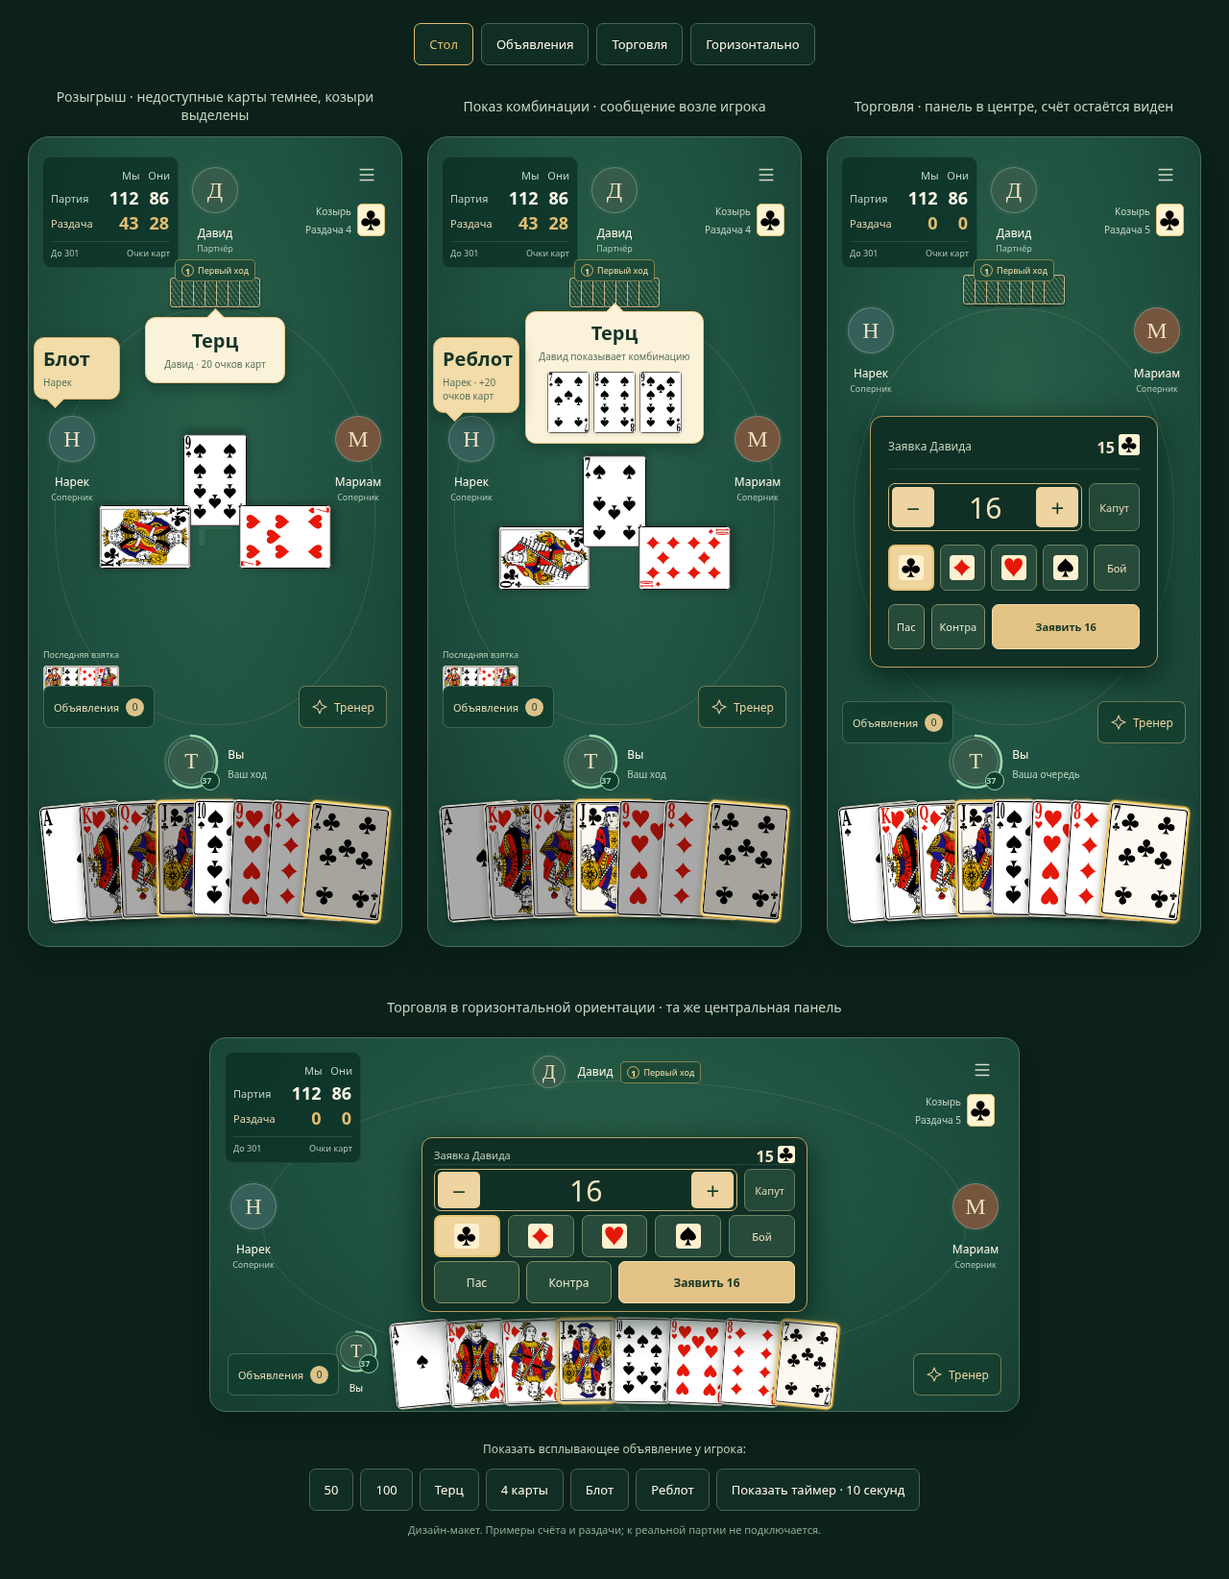
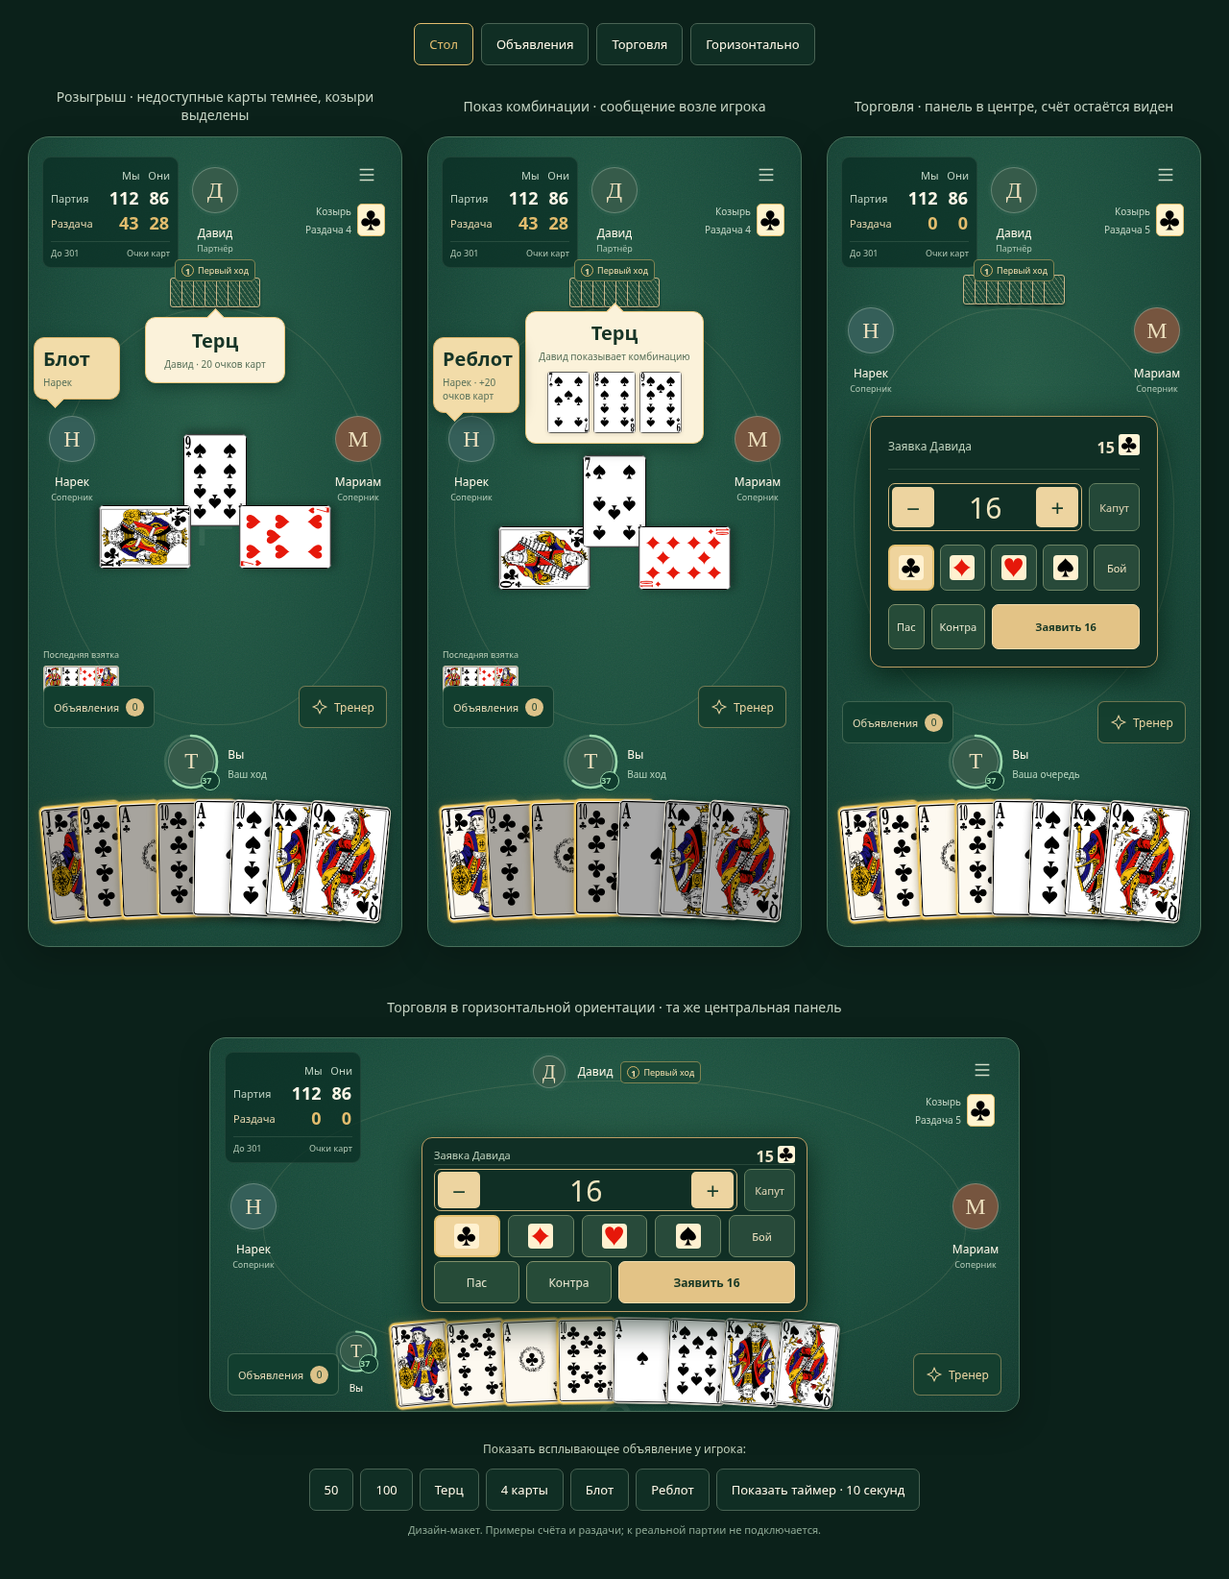
Sort design hands by suit and Blot strength for the current contract

Changed region(s): [[0.0312, 0.4964, 0.6562, 0.5894], [0.6875, 0.4964, 0.9688, 0.5894], [0.3125, 0.8376, 0.6875, 0.8996]]

diff --git a/docs/design-v3/app.js b/docs/design-v3/app.js
@@ -1,11 +1,21 @@
 // Isolated visual prototype: no game rules, sockets, guest storage or production changes.
 const CARD_BASE = "../../web/public/cards/";
 const glyphs = { CLUBS: "♣", DIAMONDS: "♦", HEARTS: "♥", SPADES: "♠" };
-const rankOrder = ["ACE", "KING", "QUEEN", "JACK", "TEN", "NINE", "EIGHT", "SEVEN"];
+const suitOrder = ["CLUBS", "DIAMONDS", "HEARTS", "SPADES"];
+const trumpRanks = ["JACK", "NINE", "ACE", "TEN", "KING", "QUEEN", "EIGHT", "SEVEN"];
+const plainRanks = ["ACE", "TEN", "KING", "QUEEN", "JACK", "NINE", "EIGHT", "SEVEN"];
 const hand = [
-  ["SPADES", "ACE"], ["HEARTS", "KING"], ["DIAMONDS", "QUEEN"], ["CLUBS", "JACK"],
-  ["SPADES", "TEN"], ["HEARTS", "NINE"], ["DIAMONDS", "EIGHT"], ["CLUBS", "SEVEN"],
-].sort((a, b) => rankOrder.indexOf(a[1]) - rankOrder.indexOf(b[1]));
+  ["SPADES", "QUEEN"], ["CLUBS", "ACE"], ["SPADES", "KING"], ["CLUBS", "JACK"],
+  ["SPADES", "TEN"], ["CLUBS", "NINE"], ["SPADES", "ACE"], ["CLUBS", "TEN"],
+];
+function sortHand(source, trump) {
+  return [...source].sort(([suitA, rankA], [suitB, rankB]) => {
+    const suits = suitOrder.indexOf(suitA) - suitOrder.indexOf(suitB);
+    if (suits) return suits;
+    const ranks = suitA === trump ? trumpRanks : plainRanks;
+    return ranks.indexOf(rankA) - ranks.indexOf(rankB);
+  });
+}
 const cardImage = (suit, rank) => `<img src="${CARD_BASE}${suit}-${rank}.svg" alt="${rank} ${suit}" draggable="false">`;
 const suitImage = suit => `<img class="suit" src="${CARD_BASE}${suit}.svg" alt="${glyphs[suit]}" draggable="false">`;
 const menuIcon = `<svg viewBox="0 0 24 24" fill="none" stroke="currentColor" stroke-width="1.6"><path d="M4 6h16M4 12h16M4 18h16"/></svg>`;
@@ -17,12 +27,12 @@ const players = `<div class="player player-north">${avatar("Д", "NORTH")}<div c
 function scoreboard(bidding) {
   return `<div class="score" aria-label="Счёт команд"><table><thead><tr><th></th><th>Мы</th><th>Они</th></tr></thead><tbody><tr><th>Партия</th><td>112</td><td>86</td></tr><tr class="live"><th>Раздача</th><td>${bidding ? 0 : 43}</td><td>${bidding ? 0 : 28}</td></tr></tbody></table><div class="score-meta"><span>До 301</span><span>Очки карт</span></div></div>`;
 }
-function cards(bidding, proof) {
-  const cards = proof ? hand.filter(c => c[1] !== "TEN") : hand;
-  return `<div class="hand" aria-label="Карты по рангу от туза до семёрки" style="--count:${cards.length}">${cards.map(([suit, rank], index) => {
+function cards(bidding, proof, trump = "CLUBS") {
+  const cards = sortHand(proof ? hand.filter(([suit, rank]) => !(suit === "SPADES" && rank === "TEN")) : hand, trump);
+  return `<div class="hand" aria-label="Карты по мастям, внутри масти — по силе в блоте" style="--count:${cards.length}">${cards.map(([suit, rank], index) => {
     const available = bidding || (proof ? suit === "CLUBS" && rank === "JACK" : suit === "SPADES");
     const middle = (cards.length - 1) / 2;
-    return `<button class="hand-card ${available ? "" : "unavailable"} ${suit === "CLUBS" ? "trump" : ""}" style="--index:${index};--angle:${(index - middle) * 1.6};--curve:${Math.abs(index - middle) * 1.2}" ${!available || bidding ? "disabled" : ""} aria-label="${rank} ${glyphs[suit]}${suit === "CLUBS" ? ", козырь" : ""}">${cardImage(suit, rank)}</button>`;
+    return `<button class="hand-card ${available ? "" : "unavailable"} ${suit === trump ? "trump" : ""}" style="--index:${index};--angle:${(index - middle) * 1.6};--curve:${Math.abs(index - middle) * 1.2}" ${!available || bidding ? "disabled" : ""} aria-label="${rank} ${glyphs[suit]}${suit === trump ? ", козырь" : ""}">${cardImage(suit, rank)}</button>`;
   }).join("")}</div>`;
 }
 function bidPanel() {
@@ -103,11 +113,27 @@ document.querySelectorAll(".preview-nav button").forEach(button => button.addEve
 }));
 document.querySelectorAll(".bid-panel").forEach(panel => {
   let amount = 16;
+  let minimum = 16;
   function update() { panel.querySelector("output").textContent = amount; panel.querySelector(".submit-bid").textContent = `Заявить ${amount}`; }
   panel.querySelector(".increase").addEventListener("click", () => { amount++; update(); });
-  panel.querySelector(".decrease").addEventListener("click", () => { amount = Math.max(16, amount - 1); update(); });
+  panel.querySelector(".decrease").addEventListener("click", () => { amount = Math.max(minimum, amount - 1); update(); });
   panel.querySelectorAll("[data-suit]").forEach(button => button.addEventListener("click", () => panel.querySelectorAll("[data-suit]").forEach(b => b.classList.toggle("selected", b === button))));
   panel.querySelector(".caput").addEventListener("click", event => { const button = event.currentTarget; const pressed = button.getAttribute("aria-pressed") !== "true"; button.setAttribute("aria-pressed", pressed); if (pressed) amount = Math.max(26, amount); update(); });
+  // A draft suit does not change the current contract or reorder the hand.
+  // Submit only applies a visual example; it does not run the game's auction.
+  panel.querySelector(".submit-bid").addEventListener("click", () => {
+    const suit = panel.querySelector("[data-suit].selected").dataset.suit;
+    const trump = suit === "BOI" ? null : suit;
+    const symbol = trump ? suitImage(trump) : "Бой";
+    panel.querySelector(".current-offer").innerHTML = `<span>Ваша заявка</span><b>${amount} <span class="suit-chip">${symbol}</span></b>`;
+    const board = panel.closest(".board");
+    board.querySelector(".contract > span").textContent = trump ? "Козырь" : "Контракт";
+    board.querySelector(".contract > strong").innerHTML = symbol;
+    board.querySelector(".hand").outerHTML = cards(true, false, trump);
+    minimum = amount + 1;
+    amount = minimum;
+    update();
+  });
 });
 function fitLandscape() { document.documentElement.style.setProperty("--landscape-scale", Math.min(390, innerWidth) / 844); document.documentElement.style.setProperty("--focus-landscape-scale", Math.min(844, innerWidth - (innerWidth > 600 ? 32 : 0)) / 844); }
 addEventListener("resize", fitLandscape); fitLandscape(); renderArchive();

diff --git a/docs/design-v3/README.md b/docs/design-v3/README.md
@@ -10,9 +10,11 @@
   прозрачности. Красные масти остаются красными; карта полностью закрывает соседей.
 - Козыри: тёплая золотая обводка и слабая золотая подсветка, в том числе у
   затемнённого козыря. Признаки козыря и допустимости хода независимы.
-- Одна рука без скролла; номинальный порядок **Т, К, Д, В, 10, 9, 8, 7**.
-  Козыри остаются в общем порядке, а не переносятся вперёд. Это сортировка
-  по номиналу для чтения руки, не изменение силы карт в движке.
+- Одна рука без скролла: сначала группы мастей **♣, ♦, ♥, ♠**, затем сила
+  карты внутри каждой группы. Козырная масть: **В, 9, Т, 10, К, Д, 8, 7**;
+  остальные масти: **Т, 10, К, Д, В, 9, 8, 7**. Во время торговли используется
+  козырь текущей заявки; неподтверждённый выбор масти порядок не меняет.
+  В примере видны В♣, 9♣, Т♣, 10♣, затем Т♠, 10♠, К♠, Д♠.
 - У игрока, первым открывающего раздачу, постоянная метка **«① Первый ход»**.
   Она отличается от индикатора текущей очереди. В этих примерах первым
   выходит Давид; во второй взятке он сохраняет метку первого выхода раздачи.
@@ -63,7 +65,9 @@ python3 -m http.server 4190
 раньше второй взятки. Карты новых примеров не являются записью одной партии.
 
 Кнопки самой торговли показывают выбор масти, числовой заявки и капута.
-Команды партии, меню и настоящий тренер в этом прототипе не выполняются.
+«Заявить» меняет демонстрационный контракт, подсветку козырей и сортировку
+руки; выбор «Бой» применяет некозырный порядок ко всем мастям. Это визуальный
+пример, не исполнение правил торговли. Меню и настоящий тренер не выполняются.
 Будущая реализация должна связывать всплывающие окна с публичными событиями
 и не повторять старые сообщения после восстановления/переподключения.
 
@@ -73,8 +77,10 @@ Chromium: панели торговли имеют отклонение цент
 ориентациях; в горизонтальном кадре между панелью и рукой **5 px**.
 На 320/390 px нет горизонтального переполнения, центрирование сохранено.
 Проверены сводка → четыре показанные карты → счётчик архива, отсутствие
-преждевременного архивирования и ошибок JavaScript. Рука отсортирована в
-порядке номиналов; недоступные карты не используют grayscale/opacity.
+преждевременного архивирования и ошибок JavaScript. Проверены группы всех
+четырёх мастей и оба порядка
+всех восьми рангов, сохранение руки при выборе черновой масти и пересортировка
+после демонстрационной заявки; недоступные карты не используют grayscale/opacity.
 
 PNG: `previews/design-v3/play.png`, `proof.png`, `bid.png`, `landscape.png`,
 `all-screens.png`, `announcements-stored.png`.
@@ -85,3 +91,8 @@ PNG: `previews/design-v3/play.png`, `proof.png`, `bid.png`, `landscape.png`,
 переход в предупреждение/последние три секунды и полное истечение до нуля.
 Публикация `813ad6c` добавила только каталог макета: все 51 прежний файл
 опубликованной игры (включая `.nojekyll`) сохранили свои Git blob-хеши.
+
+Уточнение сортировки опубликовано в `612d9ca`: группы мастей и два порядка
+силы карт в блоте. Проверены все 32 карты при каждом козыре, смена текущей
+заявки и отсутствие пересортировки при черновом выборе масти. Файлы игры
+вне `design-v3/` снова сохранили прежние Git blob-хеши.

diff --git a/docs/roadmap.md b/docs/roadmap.md
@@ -42,7 +42,7 @@
 | P19 | 32 локальных SVG-лица и четыре контрастные масти; номиналы в контурах, офлайн, источник/лицензии записаны | [Проверки](testing/friends-fixes.md) |
 | P20 | Своё имя гостя перед входом и смена имени без потери токена/места; рассылка другим и сохранение в архиве | [Проверки](testing/friends-fixes.md) |
 
-| P21 | Новый дизайн: затемнение с сохранением цвета, золотые козыри, ранговая сортировка, первый выход, убывающий таймер вокруг активного игрока, постоянный счёт, сообщения объявлений у игроков и торговля в центре обеих ориентаций | [Интерактивный макет](design-v3/), [снимки](../previews/design-v3/); проверены 320/390 px, центрирование и последовательность показа/архивирования. Это макет, не изменения клиента |
+| P21 | Новый дизайн: затемнение с сохранением цвета, золотые козыри, группировка по мастям и сортировка по силе в блоте (козырь текущей заявки), первый выход, убывающий таймер вокруг активного игрока, постоянный счёт, сообщения объявлений у игроков и торговля в центре обеих ориентаций | [Интерактивный макет](design-v3/), [снимки](../previews/design-v3/); проверены 320/390 px, центрирование и последовательность показа/архивирования. Это макет, не изменения клиента |
 
 ## Следующие задачи
 
@@ -51,7 +51,7 @@ P02 — проверка пользователем. Остальные зада
 | ID | Задача | После | Критерий готовности |
 | --- | --- | --- | --- |
 
-| P22 | Перенести новый макет P21 в React-клиент и проверить живые онлайн/офлайн-события | P21 | Затемнение без grayscale, козыри, ранговая сортировка; первый выход, убывающее кольцо таймера и счёт в торговле; центральная панель в обеих ориентациях; названные всплывающие объявления/блот/реблот до архивирования, без повтора после восстановления |
+| P22 | Перенести новый макет P21 в React-клиент и проверить живые онлайн/офлайн-события | P21 | Затемнение без grayscale, козыри, группировка по мастям и сортировка по силе в блоте (козырь текущей заявки); первый выход, убывающее кольцо таймера и счёт в торговле; центральная панель в обеих ориентациях; названные всплывающие объявления/блот/реблот до архивирования, без повтора после восстановления |
 | P02 | Проверить игру на физических Android/iOS и исправить обнаруженные проблемы интерфейса | C05 | Проверены меню, торговля, карты и чат, поворот экрана, продолжение после закрытия, офлайн-запуск, история и импорт/экспорт; проблемы исправлены либо записаны отдельными задачами |
 | P04 | Выбрать первый внешний API модели и оценить расходы | C02; можно до P03 | На примерах партий сравнили качество объяснений, задержку и стоимость; выбрали провайдера и конфигурацию |
 | P05 | Подключить настоящего тренера во время офлайн-партии | P03, P04, C03 | Сервер проверяет общий четырёхзначный код без ограничения попыток; ключ модели остаётся на сервере; модель получает только информацию игрока; ответ содержит совет, объяснение и альтернативы; проверяются формат и допустимость действия; ошибки/задержки AI не мешают продолжению партии |
